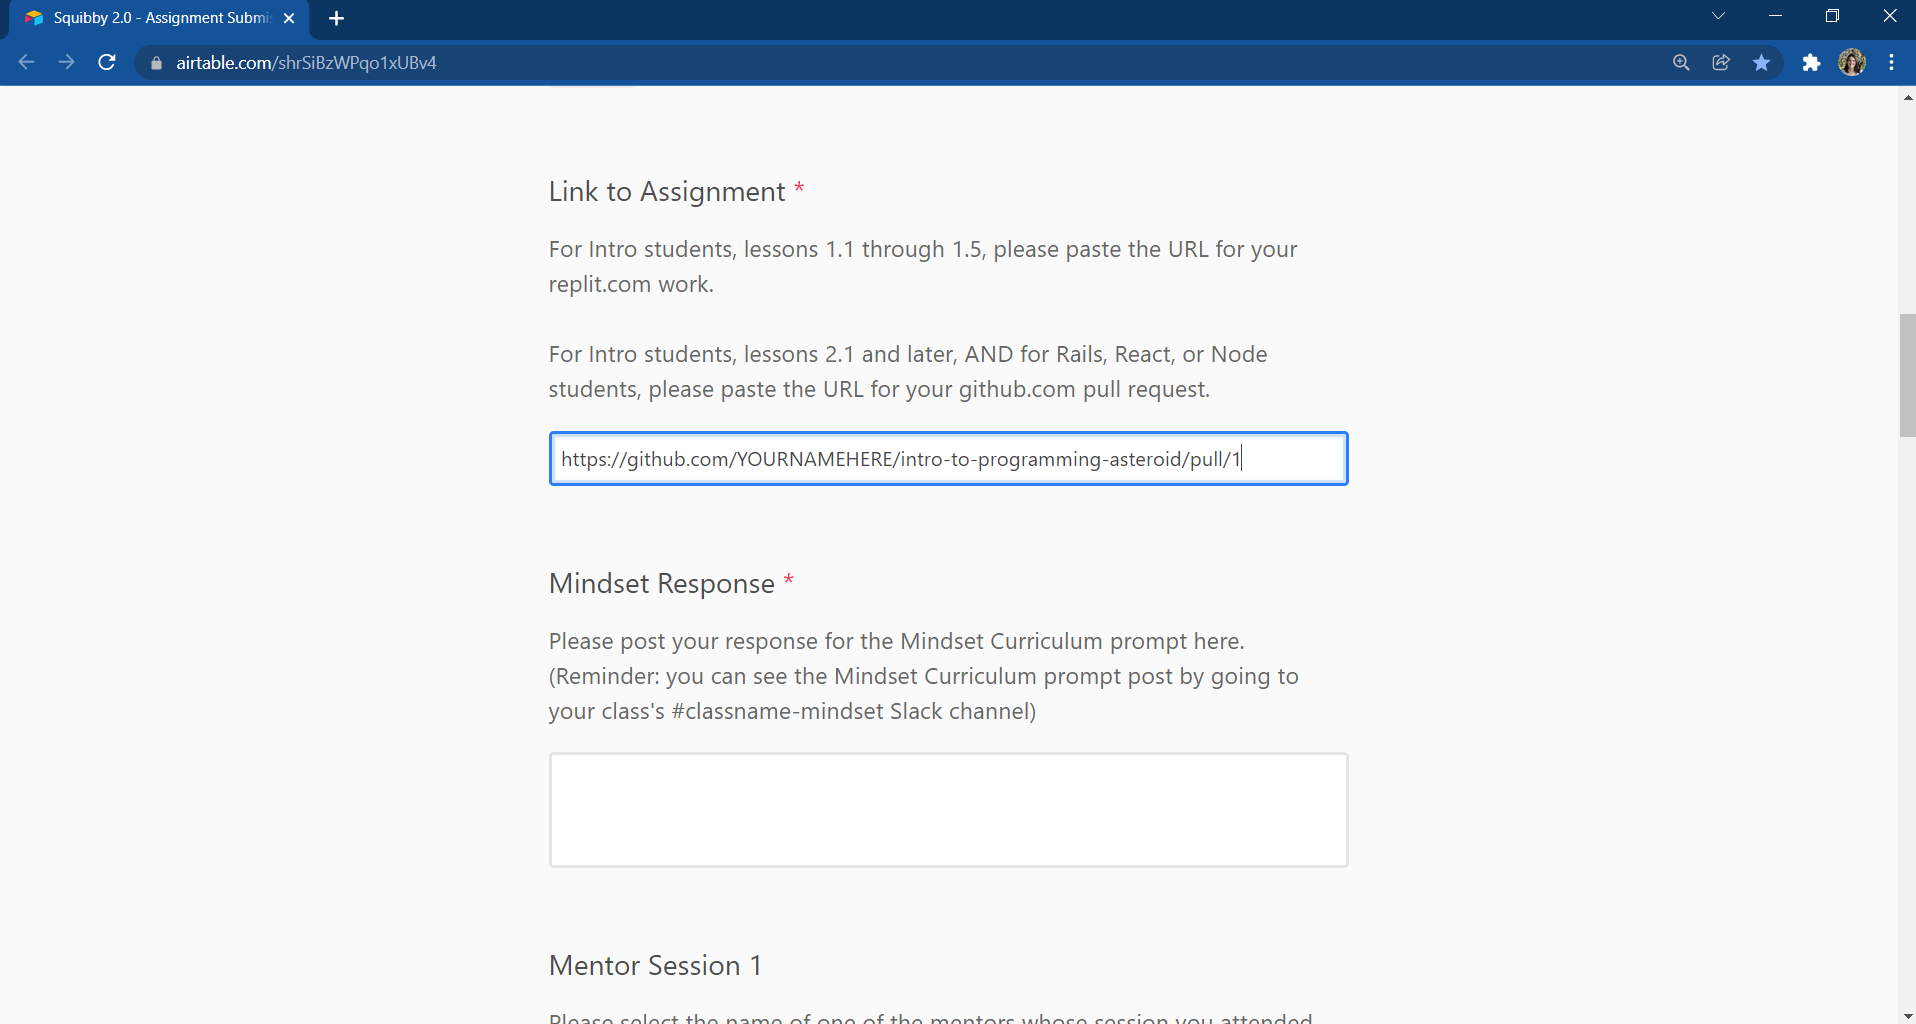
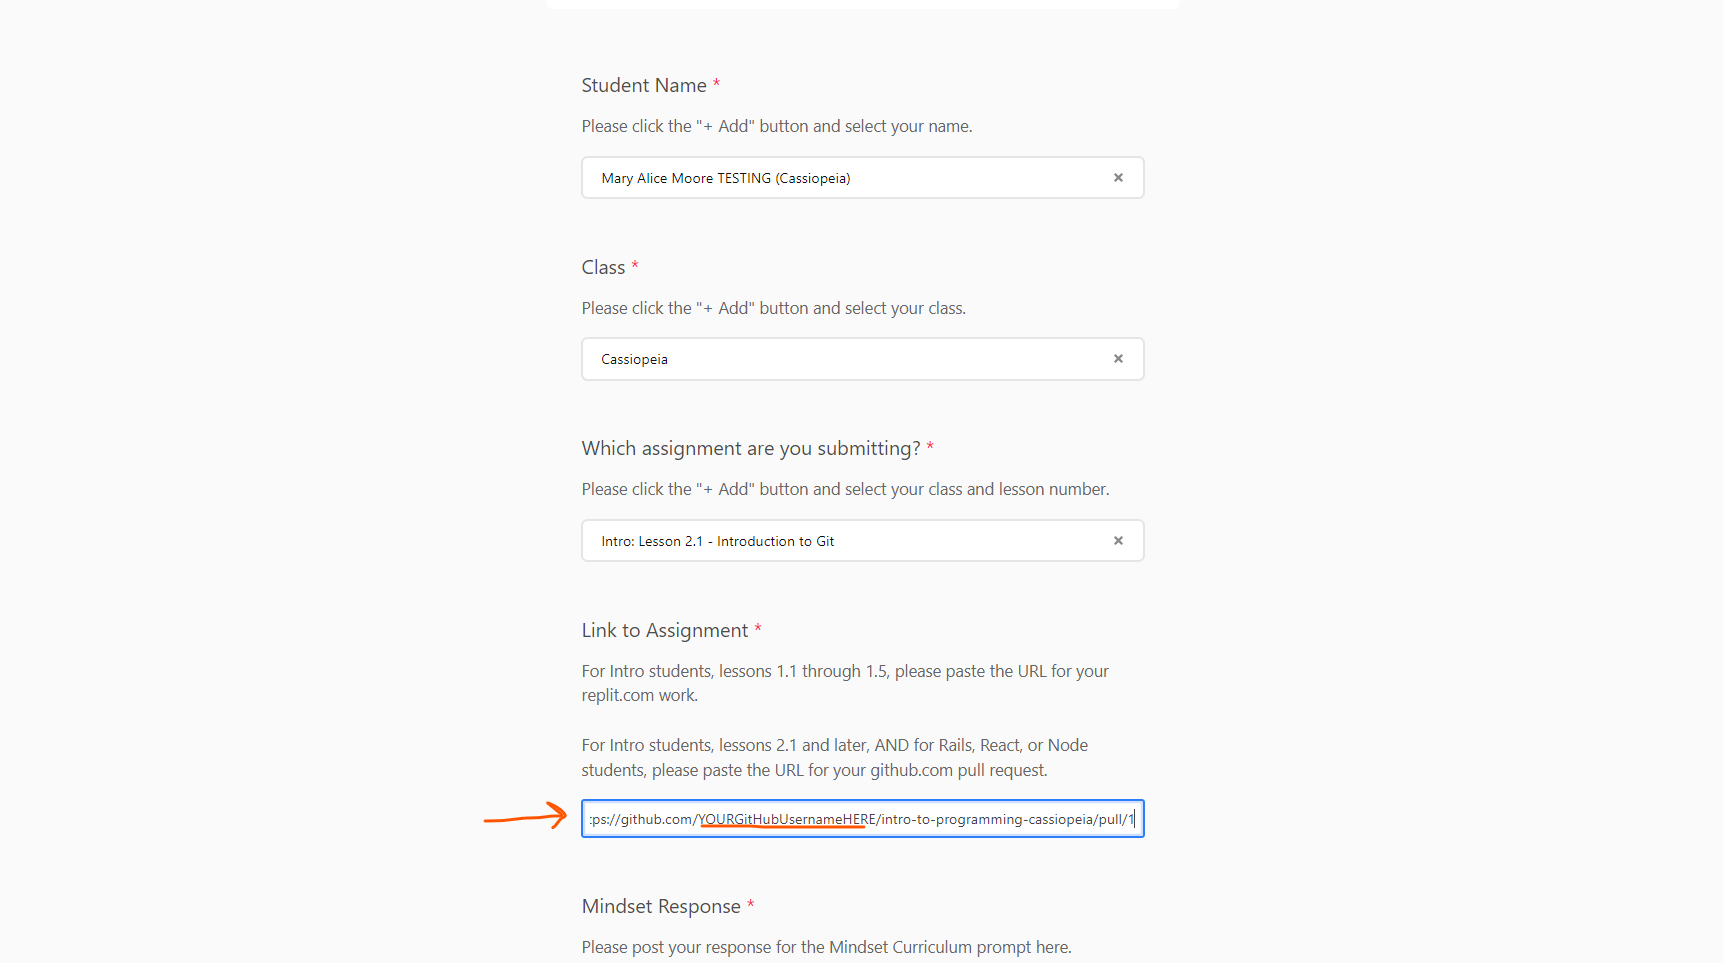
updated submit instructions

diff --git a/instructions/common/how-to-submit.md b/instructions/common/how-to-submit.md
@@ -2,19 +2,19 @@
 
 # How to: Submit an Assignment
 
-## Step 1: In your class curriculum dashboard, click the link to "Submit Assignment".  You can also get to the submission form using this link: [http://tiny.cc/ctd-borr-assignment](https://airtable.com/shrSiBzWPqo1xUBv4)
+## Step 1: In your Slack class announcements channel click the Submit Assignment bookmark OR at the bottom of your lesson page click the link for Squibby 2.0.  You can also get to the submission form using this link: [Squibby 2.0 Assignment Submission Form](https://airtable.com/shrSiBzWPqo1xUBv4)
 
-     **Preview screenshot coming soon**
+![Submit Assignment: Step 1](../assets/submit-assignment/getting-to-submission-form.png)
 
 ## Step 2: Complete the form; be sure to paste the URL you copied in the previous tutorial
 **NOTE:** In this screenshot, where the URL has "YOURNAMEHERE" should be _your_ GitHub username. 
 
-![Submit Assignment: Step 2](../assets/submit-assignment/step-2-squibbyV2-interface.png)
+![Submit Assignment: Step 2](../assets/submit-assignment/step-2-squibbyV2.png)
 
 ## Step 3: Be sure you complete all required fields (required fields have a red asterisk after the label)
 **NOTE:** The Questions field will be shared with your reviewer, so they may address your questions when reviewing your work.  However, if you wish to have a **faster** answer to your questions, be sure you are asking them during your mentor session(s) or are posting them in the #borr-discussion channel in Slack.
 
-![Submit Assignment: Step 3](../assets/submit-assignment/step-3-squibbyV2-interface.png)
+![Submit Assignment: Step 3](../assets/submit-assignment/step-3-squibbyV2.png)
 
 ## Step 4: Click "Submit" and you're done!
 
